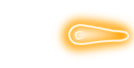
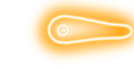
ARA SI DEFINITIU

diff --git a/ModuleSceneIntro.cpp b/ModuleSceneIntro.cpp
@@ -82,7 +82,7 @@ bool ModuleSceneIntro::Start()
 	revoluteJointDef_rFlipper1.localAnchorA.Set(PIXEL_TO_METERS(13), 0);
 	revoluteJointDef_rFlipper1.localAnchorB.Set(0, 0);
 	b2RevoluteJoint* joint_right1 = (b2RevoluteJoint*)App->physics->world->CreateJoint(&revoluteJointDef_rFlipper1);
-	flipperR = App->textures->Load("pinball/flipperR2.png");
+	flipperR2 = App->textures->Load("pinball/flipperR2.png");
 
 	//Left Flipper1
 	l_flipper1 = App->physics->CreateRectangle(240, 887, 67, 14);
@@ -98,7 +98,7 @@ bool ModuleSceneIntro::Start()
 	revoluteJointDef_lFlipper1.localAnchorA.Set(PIXEL_TO_METERS(-13), 0);
 	revoluteJointDef_lFlipper1.localAnchorB.Set(0, 0);
 	b2RevoluteJoint* joint_left1 = (b2RevoluteJoint*)App->physics->world->CreateJoint(&revoluteJointDef_lFlipper1);
-	flipperL = App->textures->Load("pinball/flipperL2.png");
+	flipperL2 = App->textures->Load("pinball/flipperL2.png");
 
 
 
@@ -408,8 +408,8 @@ update_status ModuleSceneIntro::Update()
 	float32 flipperLeftAngle = l_flipper1->body->GetAngle();
 	float32 flipperRightAngle = r_flipper1->body->GetAngle();
 
-	App->renderer->Blit(flipperR, 277, 862, NULL, 1.0f, r_flipper1->GetRotation());
-	App->renderer->Blit(flipperL, 108, 852, NULL, 1.0f, l_flipper1->GetRotation());
+	App->renderer->Blit(flipperR2, 281, 860, NULL, 1.0f, r_flipper1->GetRotation());
+	App->renderer->Blit(flipperL2, 120, 865, NULL, 1.0f, l_flipper1->GetRotation());
 
 	/*if (App->input->GetKey(SDL_SCANCODE_RIGHT) == KEY_REPEAT) {
 		b2Vec2 force = b2Vec2(0, -200);

diff --git a/ModuleSceneIntro.h b/ModuleSceneIntro.h
@@ -58,8 +58,8 @@ public:
 	SDL_Texture* circle;
 	SDL_Texture* box;
 	SDL_Texture* rick;
-	SDL_Texture* flipperL;
-	SDL_Texture* flipperR;
+	SDL_Texture* flipperL2;
+	SDL_Texture* flipperR2;
 	SDL_Texture* spring_1;
 	//SDL_Texture* palo1_;
 	uint bonus_fx;
